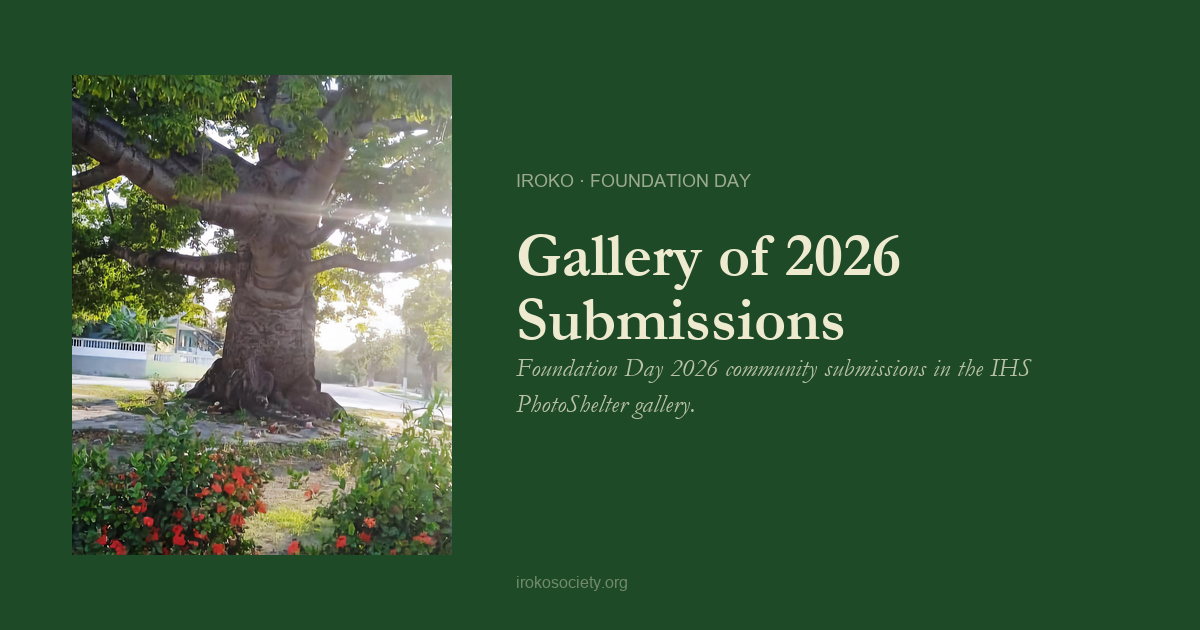
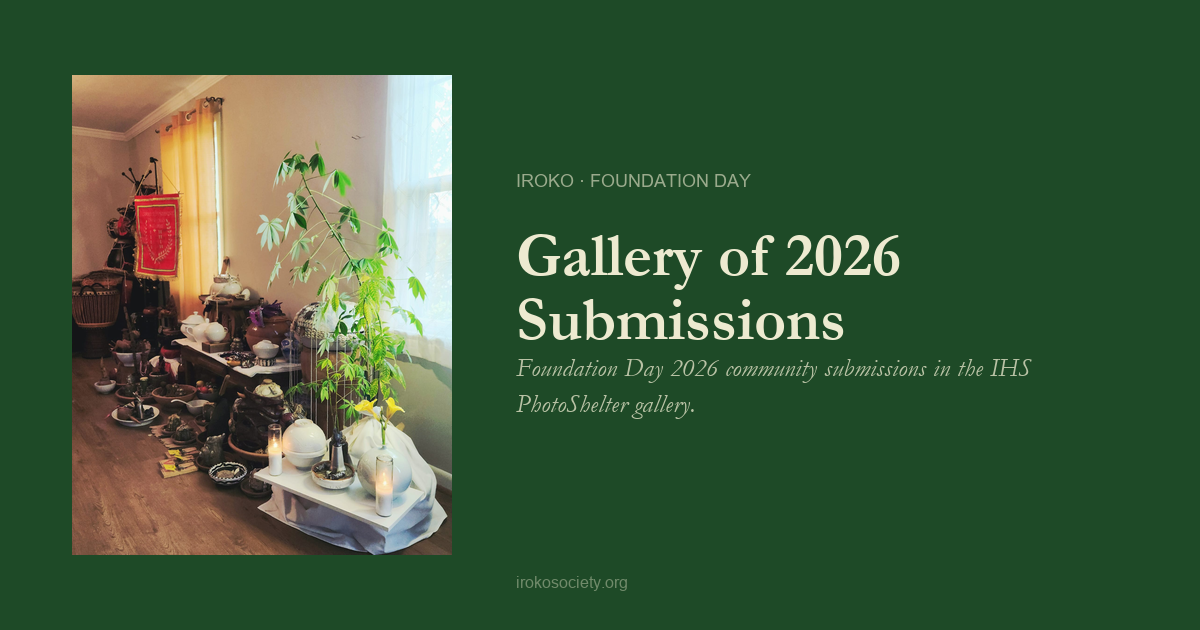
Update 2026

Changed region(s): [[0.0617, 0.1206, 0.4008, 0.9048]]

diff --git a/generate-og.py b/generate-og.py
@@ -714,8 +714,8 @@ PAGES = [
     dict(
         file       = "foundation-day/community-gallery-2026.html",
         slug       = "og-community-gallery-2026",
-        layout     = "photo",
-        photo_url  = "https://m.psecn.photoshelter.com/img-get/I0000BOUspDyBJo4/s/1200/I0000BOUspDyBJo4.jpg",
+        layout     = "photo", 
+        photo_url  = "https://m.psecn.photoshelter.com/direct-link/l/0/mswBpobsB70/uTAui7uxLuxFuituxruRui7uxuTUuim/IHS---Private-Observations---2026.jpeg",
         label      = "IROKO · FOUNDATION DAY",
         title      = "Gallery of 2026 Submissions",
         subtitle   = "Foundation Day 2026 community submissions in the IHS PhotoShelter gallery.",